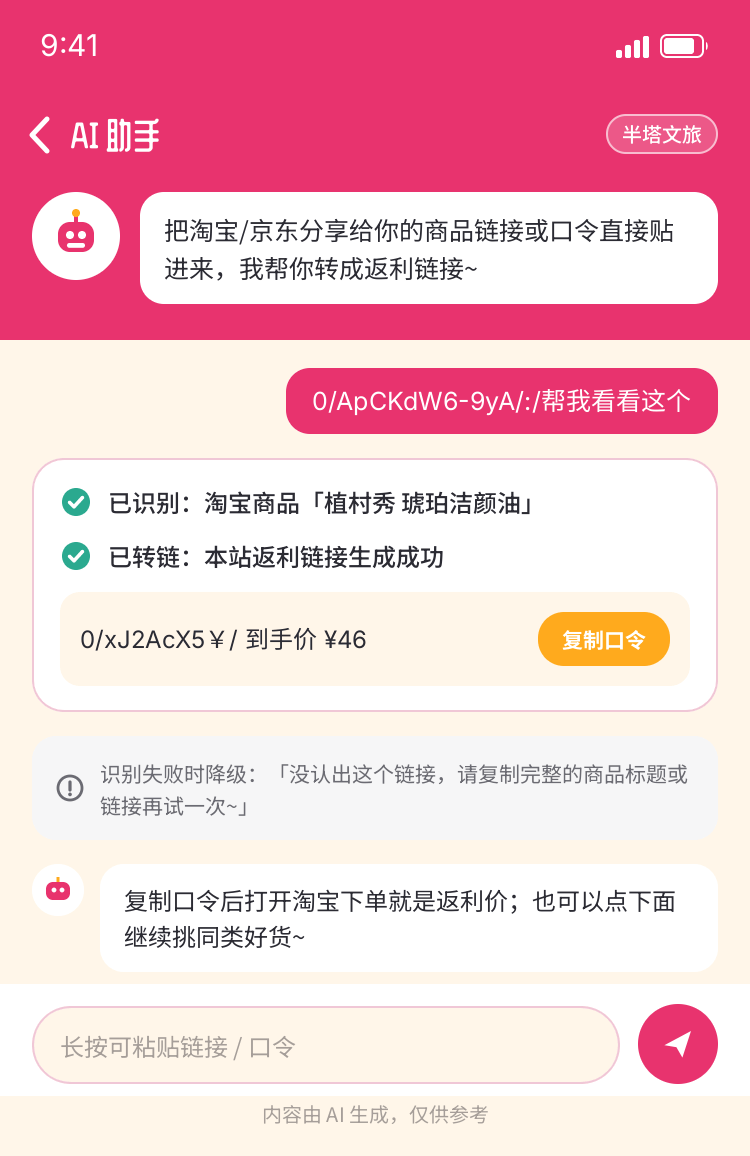
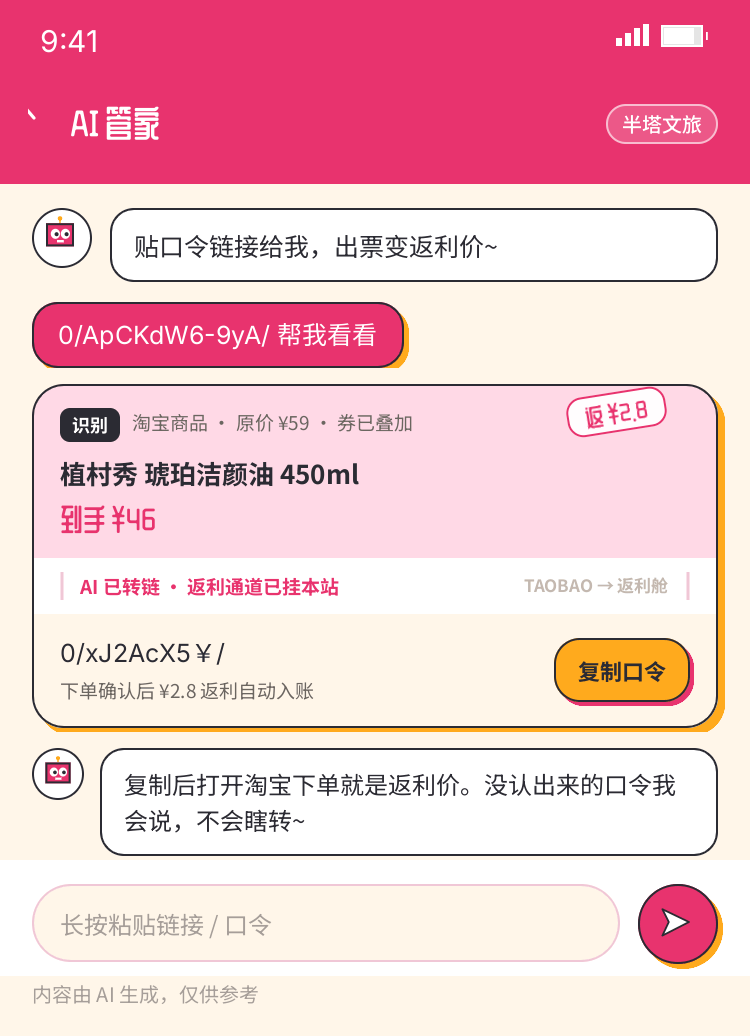
design(mini-29): 29N「出票亭」四稿定稿回迁主画布 + 快照重导 + 资产索引对账 48 屏（决策 #47）
- 178:1 对话出票态 / 178:108 能力全景空态 / 178:242 转链登机牌 / 178:324 入口组件三形态，替换删除 177 系旧稿
- 数据带钦定口径：148 项品牌服务 + 83 项会员权益 + 4 大平台返利；品牌点餐副文「麦肯瑞茶 13+ 品牌 5 折起点」
- screens/ 4 张 2x 快照重导覆盖；explore/ 29N1~4 探索稿入库
- design/README.md：29 系四行登记 + 变更表定稿行 + 计数对账（资产索引 46→48、后台 19→20）

diff --git a/docs/design/README.md b/docs/design/README.md
@@ -6,11 +6,11 @@
 
 ---
 
-## 1. 资产索引（46 屏 · 节点 ID ↔ 快照文件 ↔ 目标页面）
+## 1. 资产索引（48 屏 · 节点 ID ↔ 快照文件 ↔ 目标页面）
 
 「目标页面」列 = 实现代码的位置，随开发进度填充；标 ✅ 的已有实现。
 
-### 小程序端（25 屏 → apps/mini）
+### 小程序端（26 屏 → apps/mini）
 
 | 屏号 | 页面       | 画布节点     | 快照文件                           | 目标页面                                |
 | -- | -------- | -------- | ------------------------------ | ----------------------------------- |
@@ -46,10 +46,14 @@
 | 25 | 邀请推广页    | `33:716` | `screens/mini-25-邀请推广页.png`    | `src/pages/invite/index.vue`        |
 | 27 | ~~收货地址页~~（2026-09-29 移除，决策 #29） | ~~33:814~~ | ~~screens/mini-27-收货地址页.png~~（已删除） | ~~src/pages/address/index.vue~~（随快递履约下线）       |
 | 28 | 设置页      | `33:855` | `screens/mini-28-设置页.png`      | `src/pages/my/settings.vue`         |
+| 29 | **AI 管家对话页**（2026-10-07 新增，决策 #46；29N「出票亭」重绘定稿，决策 #47） | `178:1` | `screens/mini-29-AI助手对话页.png` | ⬜ 规划 `src/pages/ai/chat.vue`（入口组件 `ai-chat-entry` 三形态见 29D） |
+| 29B | AI 管家能力全景空态（29 增补稿·决策 #47 定稿） | `178:108` | `screens/mini-29B-AI助手空态.png` | 同上（空态帧：英雄区+2×3 能力矩阵+热问胶囊） |
+| 29C | AI 管家转链流态（29 增补稿·决策 #47 定稿） | `178:242` | `screens/mini-29C-AI助手转链流态.png` | 同上（转链帧：淘口令→转链登机牌三联+复制口令） |
+| 29D | AI 管家入口组件三形态（29 增补稿·不占号） | `178:324` | `screens/mini-29D-入口组件三形态.png` | `ai-chat-entry` 组件（float/banner/block + 装修 props，第 28 种 KNOWN_TYPES） |
 
 > 屏 26（登录授权页，33:789）已于 2026-09-28 **移除**（D先生 定夺）：进系统即静默 openid 入库，无独立登录授权页（与 H5-44 同口径）；联动修改 28 设置页——隐藏「账号分组区」（33:872）与「退出区」（33:905），快照已覆盖重导；`mini-26` 快照已删除。
 
-### 后台管理端（19 屏 → apps/admin）
+### 后台管理端（20 屏 → apps/admin）
 
 | 屏号 | 页面                                                                                               | 画布节点                     | 快照文件                              | 目标页面                                                                                          |
 | -- | ------------------------------------------------------------------------------------------------ | ------------------------ | --------------------------------- | --------------------------------------------------------------------------------------------- |
@@ -143,6 +147,7 @@
 > **固定流程（D先生 定，2026-09-22）**：以后任何新增或修改的设计，收尾时自动做三件事——① 重导该屏快照覆盖 `screens/`；② 本节追加一条变更记录；③ 写入项目历史记忆（`.workbuddy/memory/`）。
 
 | 日期         | 屏                      | 变更                                                                                                                                                                                                                                                                                                                                                                                               | 画布节点                                                                                          | 快照                                                   |
+| 2026-10-07 | **mini-29 AI 管家（29N「出票亭」重绘定稿·决策 #47）** | D先生 拍板「拓宽思路重画惊喜版」→ 探索画布四稿（29N1~N4）定稿回迁主画布**整体替换旧四稿**：① `178:1` 对话出票态（调度状态条「已接入本站 148 项服务 · 83 项权益」+ 瑞幸**票根卡**（撕票线+GO 副券+「已省 ¥10」旋转盖章）+ 同类券轨道 星/库/茶 + **美团外卖红包服务卡**（金底「美」贴纸+去领取））；② `178:108` 能力全景空态（侦探机器人英雄区 + 数据带三徽章「148 项品牌服务/83 项会员权益/4 大平台返利」+ 2×3 能力矩阵（搜券比价玫红/转链返利鎏金/品牌点餐奶油「**麦肯瑞茶 13+ 品牌 5 折起点**」/电影票粉/会员权益/打车出行滴高哈）+ 热问胶囊）；③ `178:242` 转链登机牌（上联识别「植村秀 琥珀洁颜油·原价 ¥59·券已叠加→到手 ¥46」+ 中缝「AI 已转链·返利舱」+ 下联新口令+复制钮+「返 ¥2.8」盖章）；④ `178:324` 入口组件三形态（float 会说话悬浮球/banner 数字钩子/block 按钮+黑底 props 卡）。**数据带口径锚定根 README 品牌矩阵（11 分类 100+ 品牌）+ fasttype 权益目录（81 项）**，服务示例零编造。旧稿 `177:1/177:125/177:194/177:266` 已删除，正式快照 4 张覆盖重导 screens/（29B 副文用 D先生 钦定文案「麦肯瑞茶 13+ 品牌 5 折起点」）。 | 新增 `178:1` / `178:108` / `178:242` / `178:324`；删 `177:1` / `177:125` / `177:194` / `177:266` | `screens/mini-29-AI助手对话页.png`、`mini-29B-AI助手空态.png`、`mini-29C-AI助手转链流态.png`、`mini-29D-入口组件三形态.png`（全部覆盖重导） |
 | 2026-10-07 | **mini-29 AI 助手（服务纠偏+精致化）** | 服务示例全部锚定 `brand_action_cfg` 真实 brand_code，清除编造服务（外卖红包/打车出行/加油优惠/美团外卖红包）：`177:1` 用户问「帮我点一份肯德基」→ 服务卡改「肯德基 · 自助点餐」（dining_04，汉堡图标+「去点餐」）、chips→聚合点餐/电影票/瑞幸咖啡/会员充值；`177:125` chips→肯德基点餐/电影票/瑞幸咖啡/会员充值、推荐3/4 改「瑞幸有没有优惠券？」「打开电影票，看看最近热映」并新增 4 类线性图标（搜索/链环/咖啡杯/播放）、删除越界的「元宝签到」直达示例（#46 红线：签到不进对话工具集）；`177:194` 示例商品改「植村秀 琥珀洁颜油」。快照 3 张已重导 screens/。 | `177:1` / `177:125` / `177:194` | `screens/mini-29-AI助手对话页.png`、`mini-29B-AI助手空态.png`、`mini-29C-AI助手转链流态.png` |
 | 2026-10-07 | **mini-29 AI 助手（29/29B/29C/29D 四稿）** | **新增屏 mini-29 + 增补态**（决策 #46）：① `177:1` 对话流态（欢迎气泡/用户消息/意图提示行/商品卡×2 券后价+领券直达/服务卡聚宝盆/快捷 chips/输入区+AI 脚注）② `177:125` 空态（大机器人+推荐问题 4 条）③ `177:194` 粘贴转链流态（淘口令→解析步骤卡→复制口令+失败降级示例）④ `177:266` 入口组件稿 `ai-chat-entry` 三形态（float 悬浮球/banner 横幅/block 按钮块 + 装修 props）。首期范围=转链+搜索+服务直达；红线=AI 只出调用参数不生成商品数据。快照 4 张已重导 screens/。 |
 | 2026-10-05 | 31 站点管理 + 52 站点凭据开通向导 | 屏 31 收敛为「建壳 + 授权」：删「装修/配置/域名」三格占位 toast、新增「负责人」列（负责人唯一，是该站凭据唯一配置人）、行操作改「进入站点 · 停用/启用 · 删除」、新增「新建站点」与「添加成员」两个独立抽屉（修掉两按钮共用一个 `onCreate` 的实现缺失）；**新增屏 52 站点凭据开通向导**（正式新屏占号）：四组凭据 + 只测蚂蚁星球连通性 + 未开通白名单拦截 + 分工总表 | `33:1127` / `167:11` | `screens/admin-31-站点管理.png`、`screens/admin-52-站点凭据开通向导.png` |
